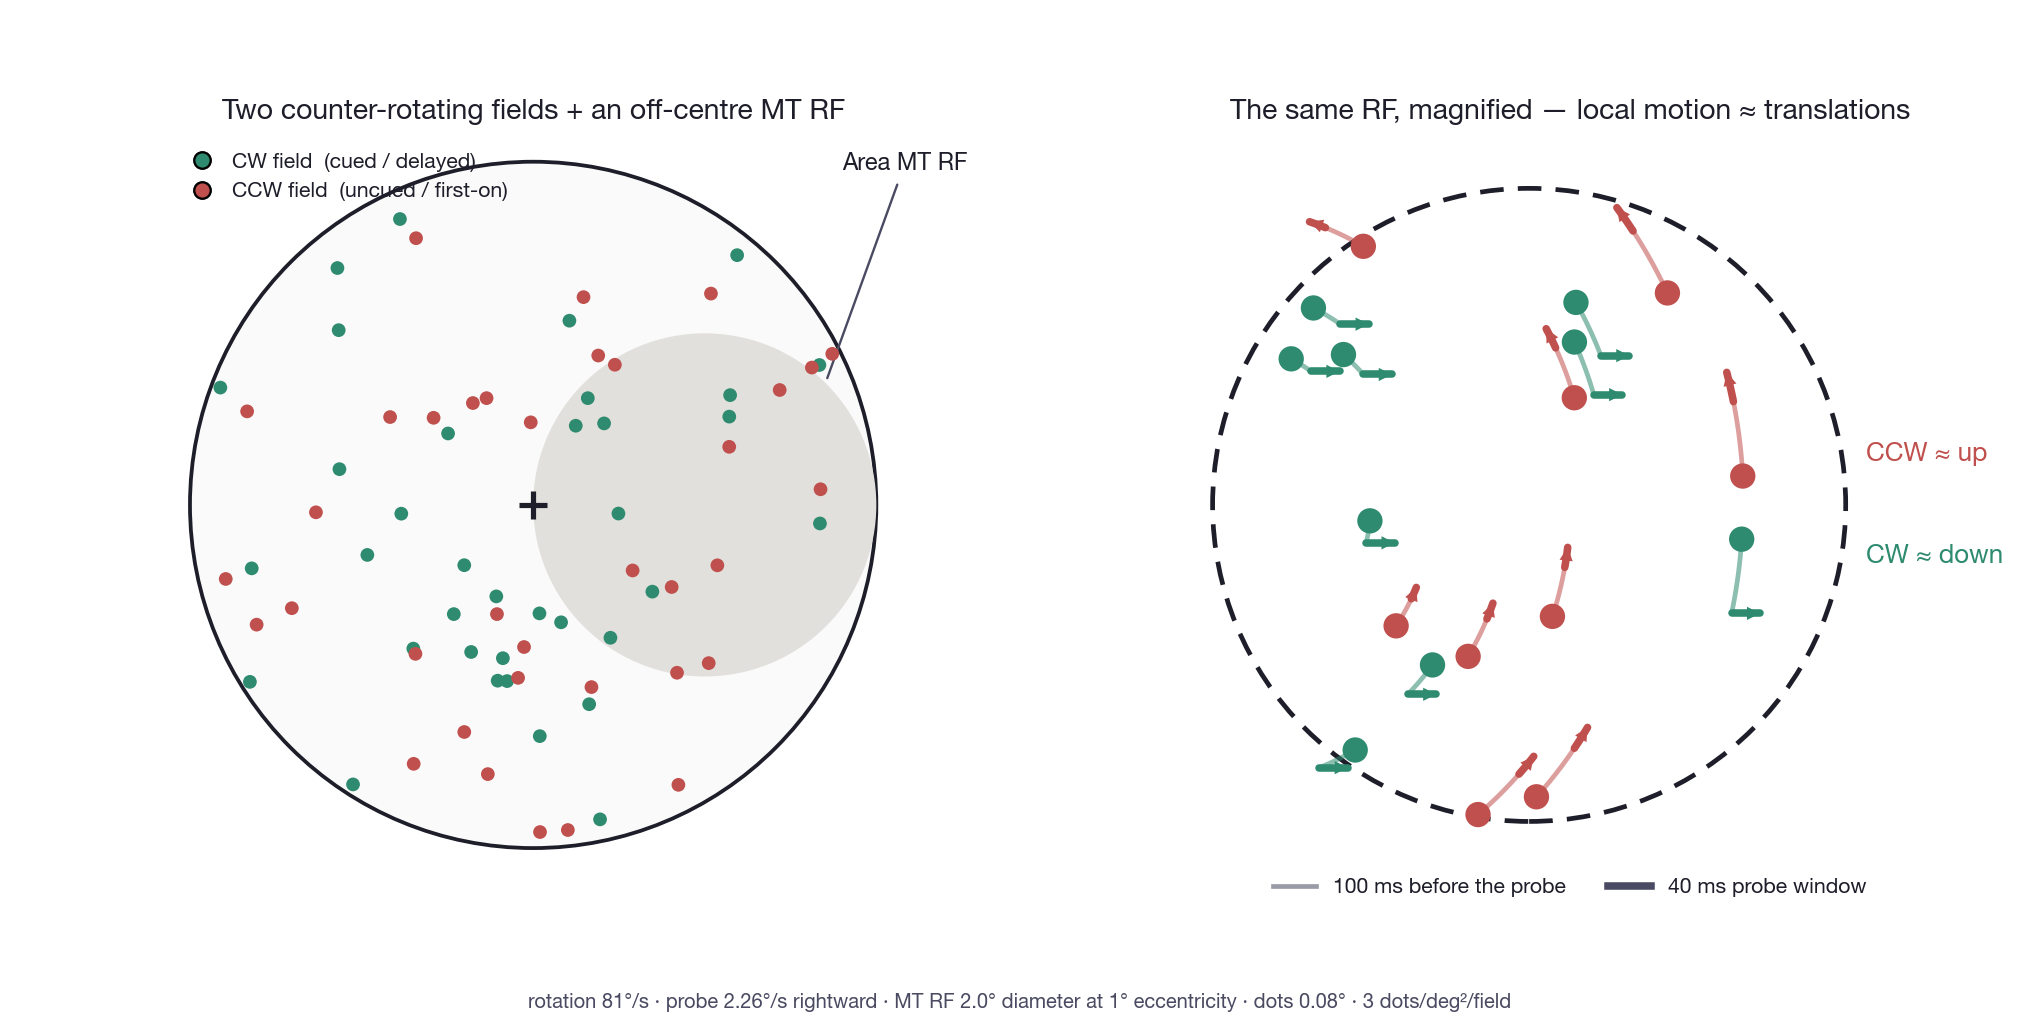
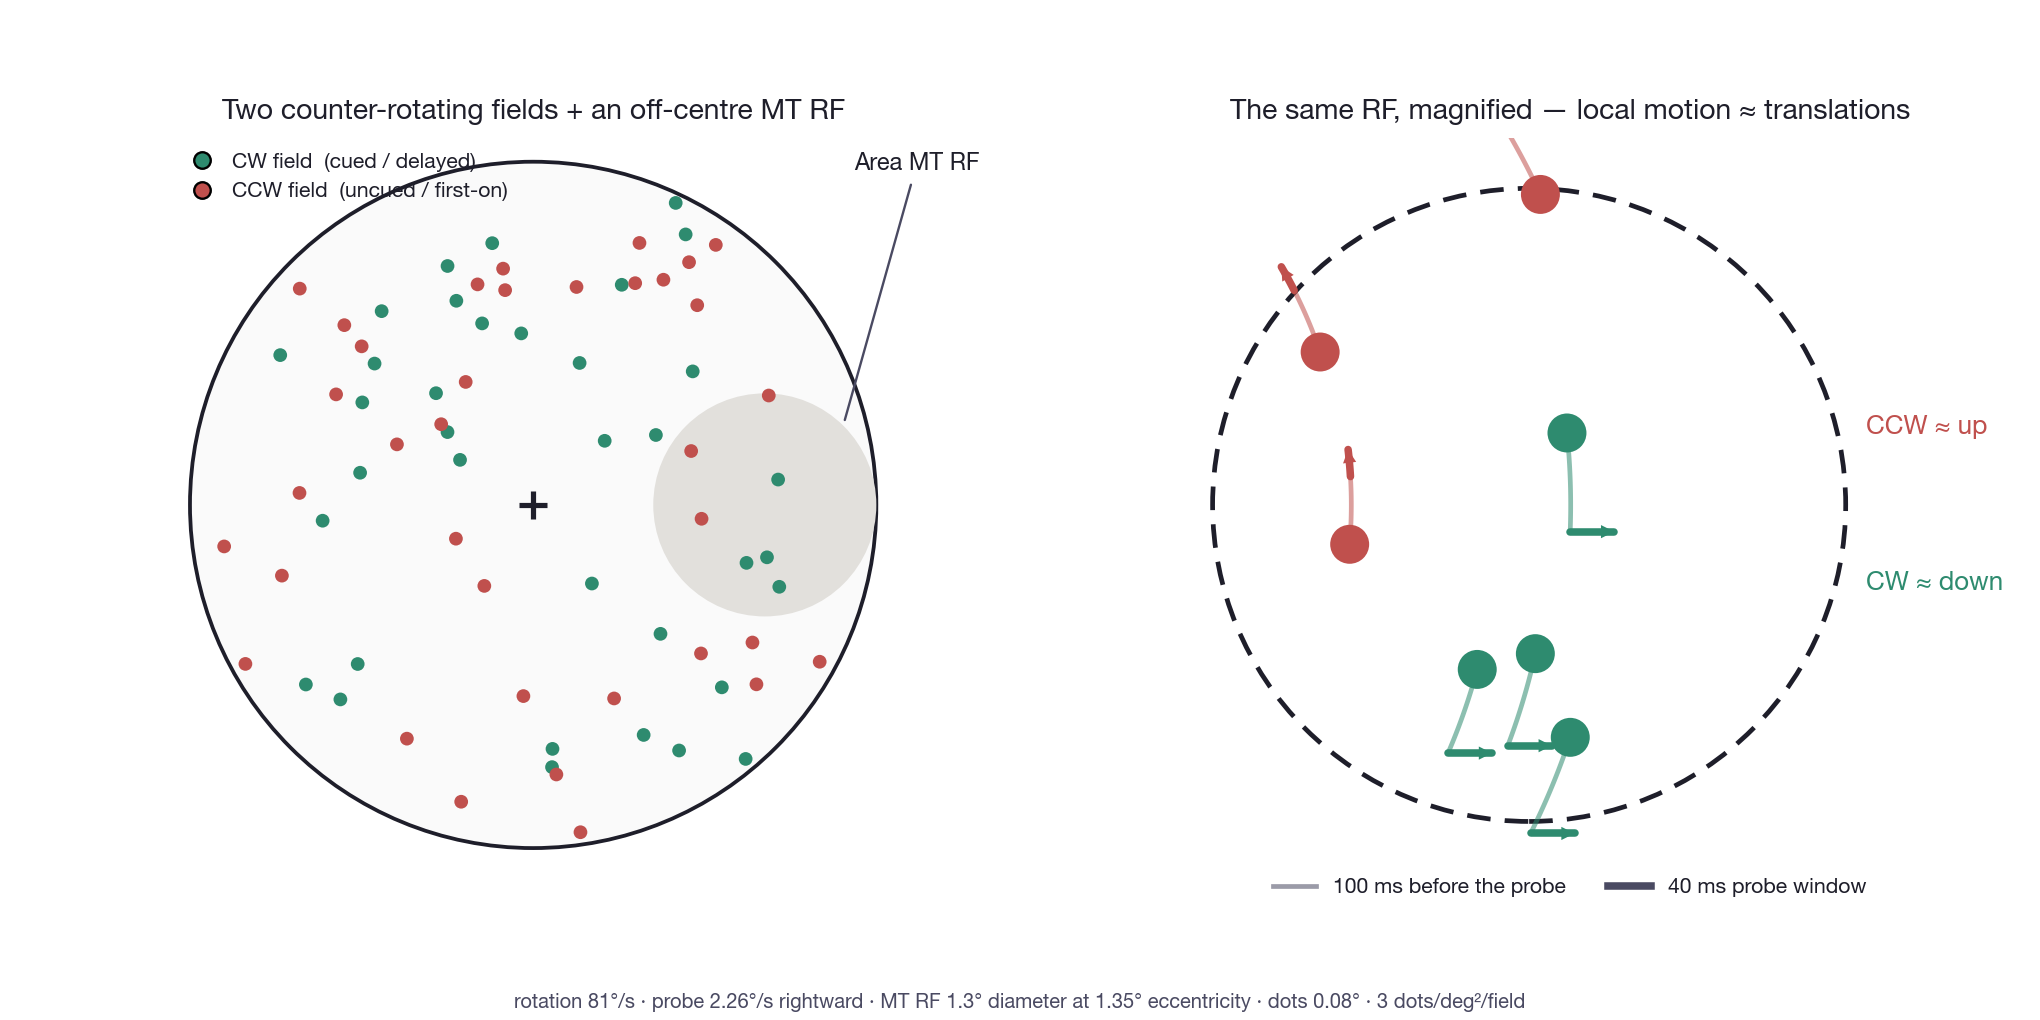
Smaller MT RF anchored on the aperture edge, off the fovea
GS: the 2 deg RF reached the fovea, and near-foveal dots do not approximate the
vertical local motion the competition model uses to stand in for the rotations —
dots there are excluded in the newer experiments and in S&B. So: smaller RF, with
its rightmost border ON the stimulus border.

MT RF is now PLACED BY ITS OUTER EDGE — MT_ECC = APERTURE - MT_R — so the radius
is the only free parameter. Set to 0.65: ecc 1.35, right edge exactly 2.00, inner
edge 0.70 deg, clear of the 0.47 deg exclusion zone.

The quantity that matters is how far local motion departs from vertical. For an
RF at eccentricity e with radius R the extreme is arcsin(R/e):

    R      ecc    inner edge   max departure from vertical
   0.60    1.40      0.80            25 deg
   0.65    1.35      0.70            29 deg     <- chosen
   0.70    1.30      0.60            33 deg
   1.00    1.00      0.00            90 deg     <- what was committed last time

The previous setting was the last row: the RF reached fixation, where the
tangential direction sweeps through every angle and "local motion ~ translation"
fails outright. 0.65 is the knee — smaller starves the V1 pair of room (_PLAY at
R=0.60 is 0.095, at 0.55 it is 0.045) and thins Figure 2's blow-up further.

Balance kept at |n_green - n_red| <= 1: the chosen layout gives 4 green / 3 red of
7 in the MT RF. Density, dot size, V1 RF size, purity and arc-length constraints
all unchanged. Seed 465; containment 1.73x (left) and 1.22x (right).
[…]

diff --git a/Agents/Modeling/sb2010/ps_stimulus_common.py b/Agents/Modeling/sb2010/ps_stimulus_common.py
@@ -66,15 +66,28 @@ RF_R_DEG     = SIGMA_DEG
 _SEP         = RF_DIAM_DEG + RF_GAP_DEG
 
 # ── the MT RF: off to one side of fixation, as in fig_modelI_stimulus ──
-# Size and position are the MODEL'S OWN operating point, not chosen for the page.
-# pointset/logs/HANDOFF_2026-07-27.md: "GS chose a 2 deg square RF at 1 deg
-# eccentricity, which deliberately does NOT obey MT RF ~ eccentricity — a 2 deg RF
-# at 2 deg ecc would be half off the S&B display." The general rule quoted in
-# CORRECTIONS_REGISTER F9 is MT RF diameter ~ eccentricity, which at 1 deg would
-# give only 1 deg; the model uses 2 deg so the patch sits inside the dot annulus.
-# Note that log also says "RF size is expected to be tweaked from here".
-MT_ECC_DEG   = 1.0
-MT_R_DEG     = 1.0                  # 2 deg diameter — tangent to the aperture edge
+# PLACED BY ITS OUTER EDGE (GS): the right border sits ON the aperture border, so
+# MT_ECC = APERTURE - MT_R. Everything then follows from the radius alone.
+#
+# WHY NOT BIGGER. The model treats each rotation as locally a translation, which
+# only holds while every dot in the RF shares roughly one tangential direction.
+# For an RF at eccentricity e with radius R the extreme direction departs from
+# vertical by arcsin(R/e), and the RF's inner edge sits at e - R:
+#
+#     R      ecc    inner edge   max departure from vertical
+#    0.60    1.40      0.80            25 deg
+#    0.65    1.35      0.70            29 deg     <- here
+#    0.70    1.30      0.60            33 deg
+#    1.00    1.00      0.00            90 deg     <- reaches fixation; the
+#                                                    approximation fails outright
+#
+# The model's own 2 deg RF at 1 deg eccentricity (HANDOFF_2026-07-27) is the last
+# row: it swallows the fovea, where local motion is nowhere near vertical, and
+# where the newer experiments — and S&B — exclude dots anyway. 0.65 keeps the
+# inner edge at 0.70 deg, clear of the 0.47 deg exclusion zone, and still leaves
+# room for the V1 pair to move (_PLAY below).
+MT_R_DEG     = 0.65
+MT_ECC_DEG   = APERTURE_DEG - MT_R_DEG
 MT_C         = (MT_ECC_DEG, 0.0)
 
 # ── motion ──
@@ -101,13 +114,12 @@ MT_BALANCE    = 1                   # max |n_green - n_red| inside the MT RF (GS
                                     # roughly equal numbers of each). Exact equality
                                     # (0) is over-constrained once combined with the
                                     # whole-dot purity test and the arc-length floor
-                                    # — no layout in 500 seeds satisfies all four.
-                                    # At 1 the chosen layout happens to come out 9/9
-                                    # anyway.
-MT_MIN_DOTS   = 12                  # the SAME layout feeds Figure 2's MT-RF blow-up,
+                                    # — no layout in 500 seeds satisfied all four at
+                                    # the larger RF. At 1 the chosen layout comes out
+                                    # 4 green / 3 red of 7.
+MT_MIN_DOTS   = 7                   # the SAME layout feeds Figure 2's MT-RF blow-up,
                                     # so reject seeds that leave that panel thin.
-                                    # At the 2 deg MT RF the mean over 399 seeds is
-                                    # 17.8 dots, range 8-29.
+                                    # At this RF the expected count is ~8.
 
 
 # ═══════════════════════════════════════════════════════════ geometry ══
